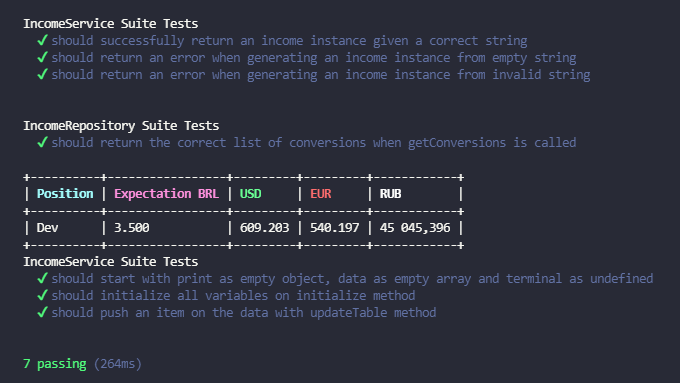
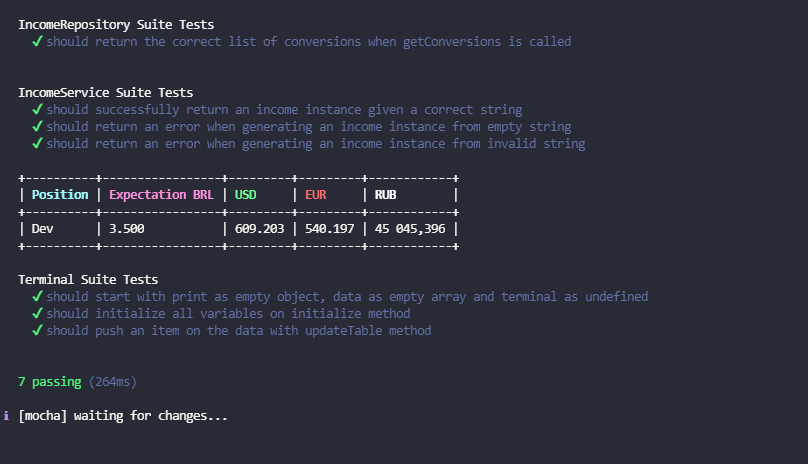
refact: test name

Changed region(s): [[0.0, 0.0287, 0.9574, 0.8329], [0.0, 0.8903, 0.2779, 0.9765], [0.6485, 0.4595, 0.6794, 0.4883]]

diff --git a/test/unit/terminal.test.js b/test/unit/terminal.test.js
@@ -8,7 +8,7 @@ import readline from "readline";
 import CustomTerminal from "../../src/terminal.js";
 import IncomeService from "../../src/service/IncomeService.js";
 
-describe("IncomeService Suite Tests", () => {
+describe("Terminal Suite Tests", () => {
   let terminal = {};
 
   before(() => {
